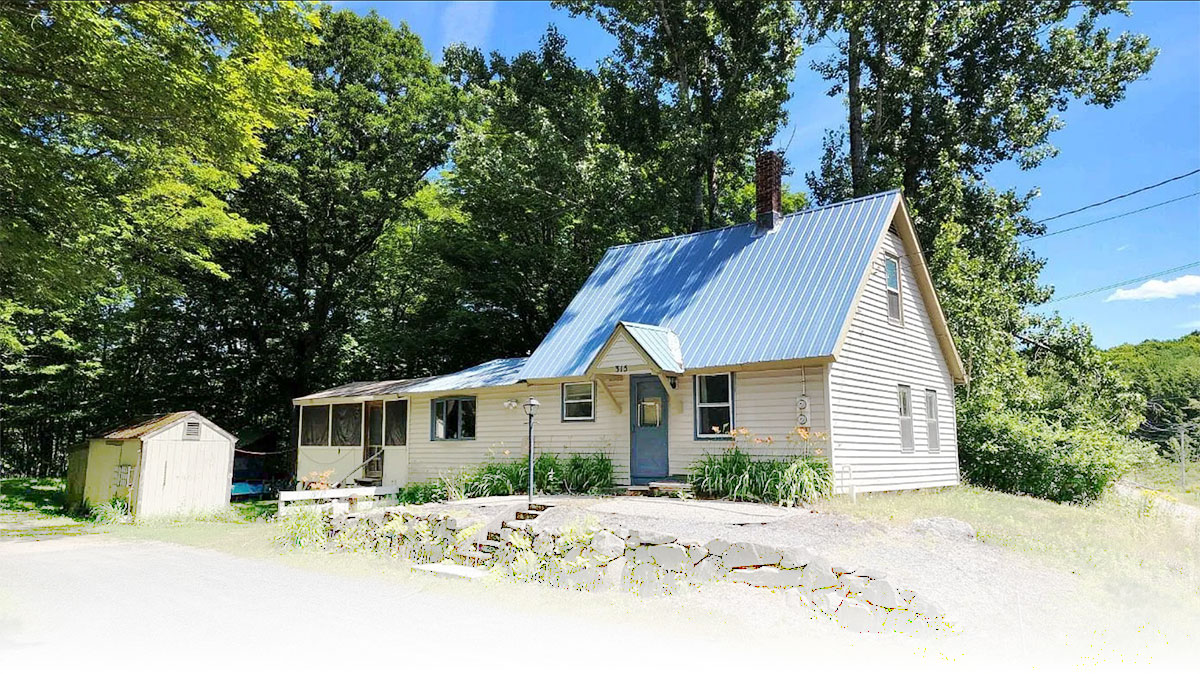
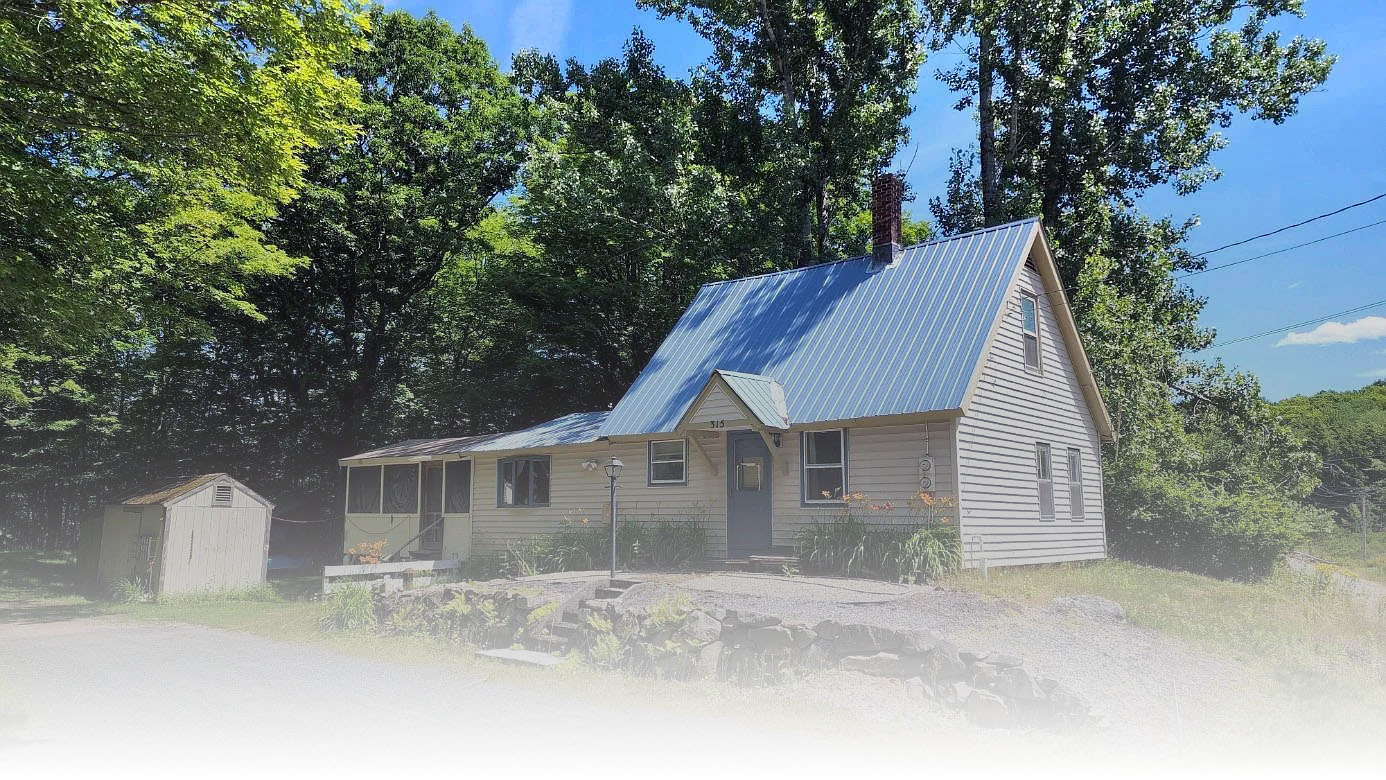
update pics and descriptions

diff --git a/src/index.html b/src/index.html
@@ -4,8 +4,8 @@
     <meta charset="UTF-8">
     <meta http-equiv="X-UA-Compatible" content="IE=edge">
     <meta name="viewport" content="width=device-width, initial-scale=1.0">
-    <meta name="title" content="Rustic Historic Farmhouse in the Heart of Sunapee">
-    <meta name="description" content="A 2 bedroom historic farmhouse in the heart of Sunapee New Hampshire available for your next vacation."
+    <meta name="title" content="A Rustic and Historic Farmhouse in the Heart of Sunapee for Rent">
+    <meta name="description" content="A complete private two bedroom historic farmhouse in the heart of Sunapee New Hampshire available for your next vacation stay."
     <title>Rustic Historic Farmhouse in the Heart of Sunapee</title>
     <link rel="icon" type="image/png" href="./images/favicon.png" />
     <link href="//fonts.googleapis.com/css?family=Raleway:400,300,600" rel="stylesheet" type="text/css">
@@ -29,27 +29,27 @@
 
         <section id="first" class="row first reveal">
             <div class="seven columns">
-                <img class="section-img" src="./images/sitting-area.jpg" alt="Kitchen Sitting Area">
+                <img class="section-img" src="./images/living-room-3.jpg" alt="Living Room">
             </div>
             <div class="five columns section-description">
-                <h3>Some Title Here</h3>
+                <h5>New Hampshire Experience</h5>
                 <p>
-                    Lorem ipsum dolor sit amet consectetur adipisicing elit. Voluptatem impedit aliquam adipisci autem reprehenderit nostrum tempore obcaecati repellendus 
+                    Experience the warmth and comfort of the fully functioning antique wood stove while enjoying the modern comforts of a 55" smart TV, board games, and forced hot air heating system with Nest smart thermostat.
                 </p>
-                <a id="second" class="button" href="https://airbnb.com/h/sunapee-getaway">SCHEDULE A STAY</a>
+                <a class="button" href="https://airbnb.com/h/sunapee-getaway">SCHEDULE A STAY</a>
             </div>
         </section>
 
         <section id="second" class="row second reveal">
             <div class="seven columns">
-                <img class="section-img" src="./images/living-room-3.jpg" alt="Living Room">
+                <img class="section-img" src="./images/sitting-area.jpg" alt="Kitchen Sitting Area">
             </div>
             <div class="five columns section-description">
-                <h3>Some Title Here</h3>
+                <h5>Private and Comfortable</h5>
                 <p>
-                    Lorem ipsum dolor sit amet consectetur adipisicing elit. Voluptatem impedit aliquam adipisci autem reprehenderit nostrum tempore obcaecati repellendus
+                    A quaint and comfortable historic farmhouse with exposed beams built in 1789. The home has a long history in Sunapee and provides the optimal environment for your New England experience.  
                 </p>
-                <a class="button" href="https://airbnb.com/h/sunapee-getaway">SCHEDULE A STAY</a>
+                <a id="second" class="button" href="https://airbnb.com/h/sunapee-getaway">SCHEDULE A STAY</a>
             </div>
         </section>
 
@@ -58,9 +58,9 @@
                 <img class="section-img" src="./images/kitchen.jpg" alt="Kitchen Sitting Area">
             </div>
             <div class="five columns section-description">
-                <h3>Some Title Here</h3>
+                <h5>Fully Functional</h5>
                 <p>
-                    Lorem ipsum dolor sit amet consectetur adipisicing elit. Voluptatem impedit aliquam adipisci autem reprehenderit nostrum tempore obcaecati repellendus
+                    A full kitchen with appliances provides everything you need to enjoy a comfortable experience. The upstairs features a sitting room and four additional beds with a second smart TV.
                 </p>
                 <a class="button" href="https://airbnb.com/h/sunapee-getaway">SCHEDULE A STAY</a>
             </div>
@@ -68,8 +68,50 @@
 
     </div>
 
-    <div class="secondary-img reveal">
-        <h2>Located in the Heart of Sunapee</h2>
+    <div class="map">
+        <iframe width="100%" height="500" frameborder="0" scrolling="no" marginheight="0" marginwidth="0" src="https://www.openstreetmap.org/export/embed.html?bbox=-72.14327178559611%2C43.33828853126013%2C-72.01821647248576%2C43.39400925644593&amp;layer=mapnik&amp;marker=43.3661552917726%2C-72.08074412904097" style="border-top: 0.5px solid silver;border-bottom: 0.5px solid silver;"></iframe><br/>
+        <small>
+            <a href="https://www.openstreetmap.org/?mlat=43.3662&amp;mlon=-72.0807#map=14/43.3662/-72.0807&amp;layers=N">
+            View Larger Map</a>
+        </small>
+    </div>
+
+    <div class="container last">
+
+        <div class="row">
+            <div class="four columns">
+                <div class="card">
+                    <h5>Sunapee Harbor</h5>
+                    <hr/>
+                    <p>
+                        1 - 1/2 Mile to beautiful Sunapee Harbor. Great area for walking around, small/local shops, great food and fun evening and daytime activities. Great for a day trip and/or local shopping. 
+                    </p>
+                </div>
+                
+            </div>
+            <div class="four columns">
+                <div class="card">
+                    <h5>Mount Sunapee</h5>
+                    <hr/>
+                    <p>
+                        Minutes down the road Mount Sunapee Resort offers some of the best skiing & snowboarding in the East. The Lake at Mt. Sunapee State Park Beach is an ideal spot for family and group outings.
+                    </p>
+                </div>
+            </div>
+            <div class="four columns">
+                <div class="card">
+                    <h5>Historic</h5>
+                    <hr/>
+                    <p>
+                        This historic farmhouse was built in 1789 and has charming features yet many updates making it a comfortable home or vacation getaway. Large screen porch with views of private backyard.
+                    </p>
+                </div>
+            </div>
+        </div>
+    </div>
+
+    <div class="container footer">
+        <h3>Located in the Heart of Sunapee</h3>
         <a class="button button-primary button-footer-cta" href="https://airbnb.com/h/sunapee-getaway">BOOK NOW</a>
     </div>
 

diff --git a/src/style.css b/src/style.css
@@ -441,12 +441,37 @@
         text-shadow: white 0px 0px 2px;
     }
 
-    .footer {
+    .last {
+      text-align: center;
+      margin-top: 3em;
+      margin-bottom: 3em;
+    }
+
+    .last hr {
+      margin-top: 0px;
+      margin-bottom: 2em;
+    }
+
+    .map {
+      margin-top: 5em;
       text-align: center;
     }
 
     .button-footer-cta {
       width: 30%;
+    }
+
+    .card {
+      height: 280px;
+      border: 0.5px solid silver;
+      border-radius: 8px;
+      padding: 2em;
+      margin: 1em;
+    }
+
+    .footer {
+      text-align: center;
+      margin-bottom: 2em;
     }
     
 
